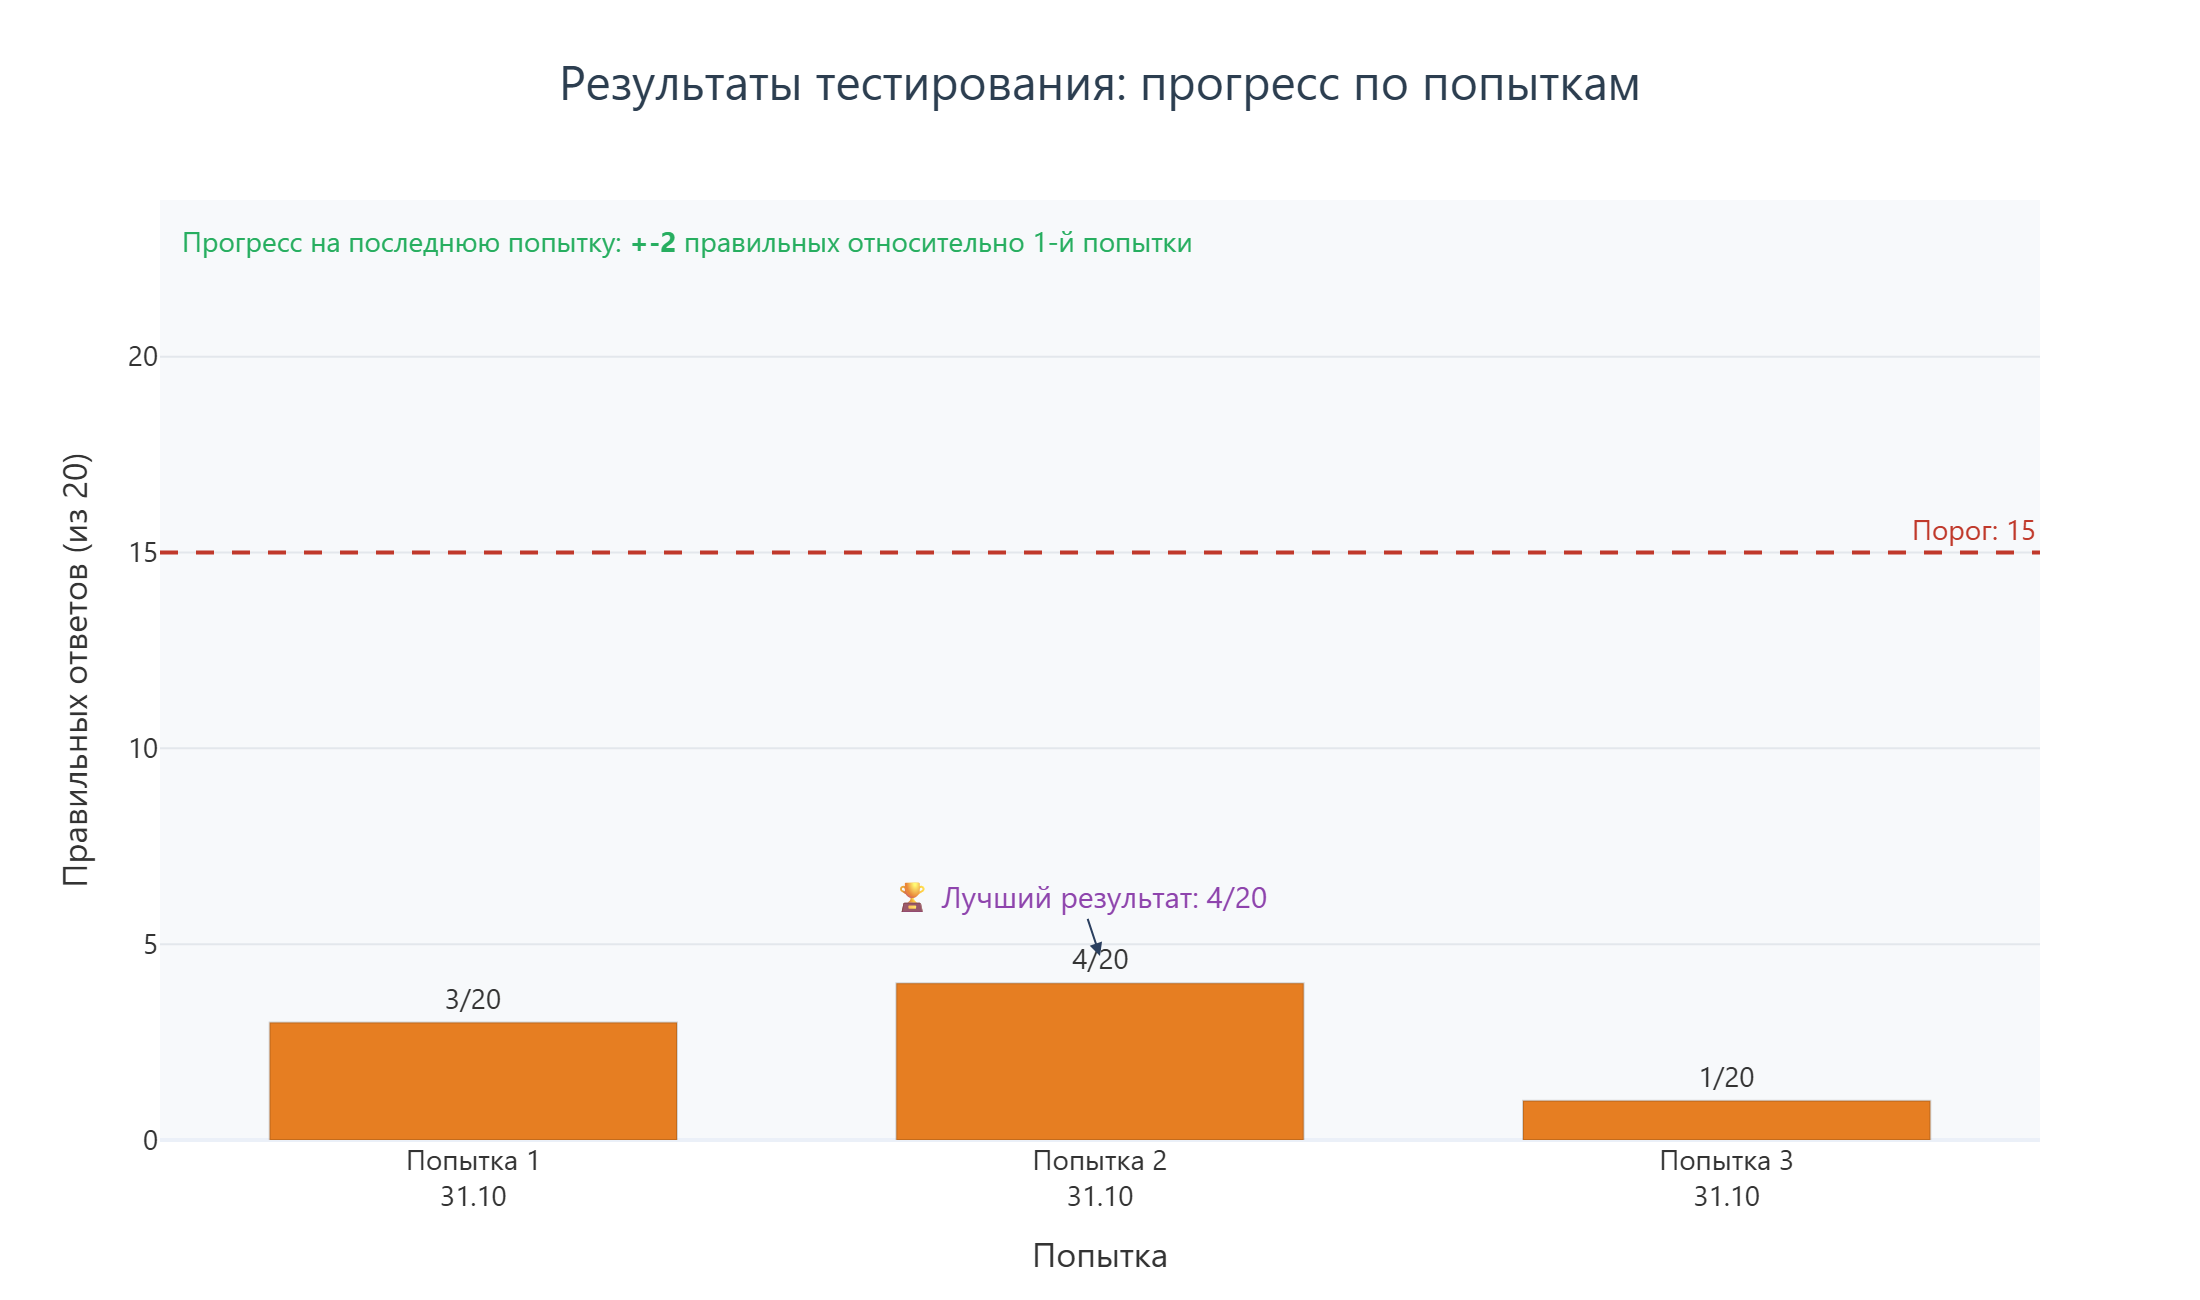
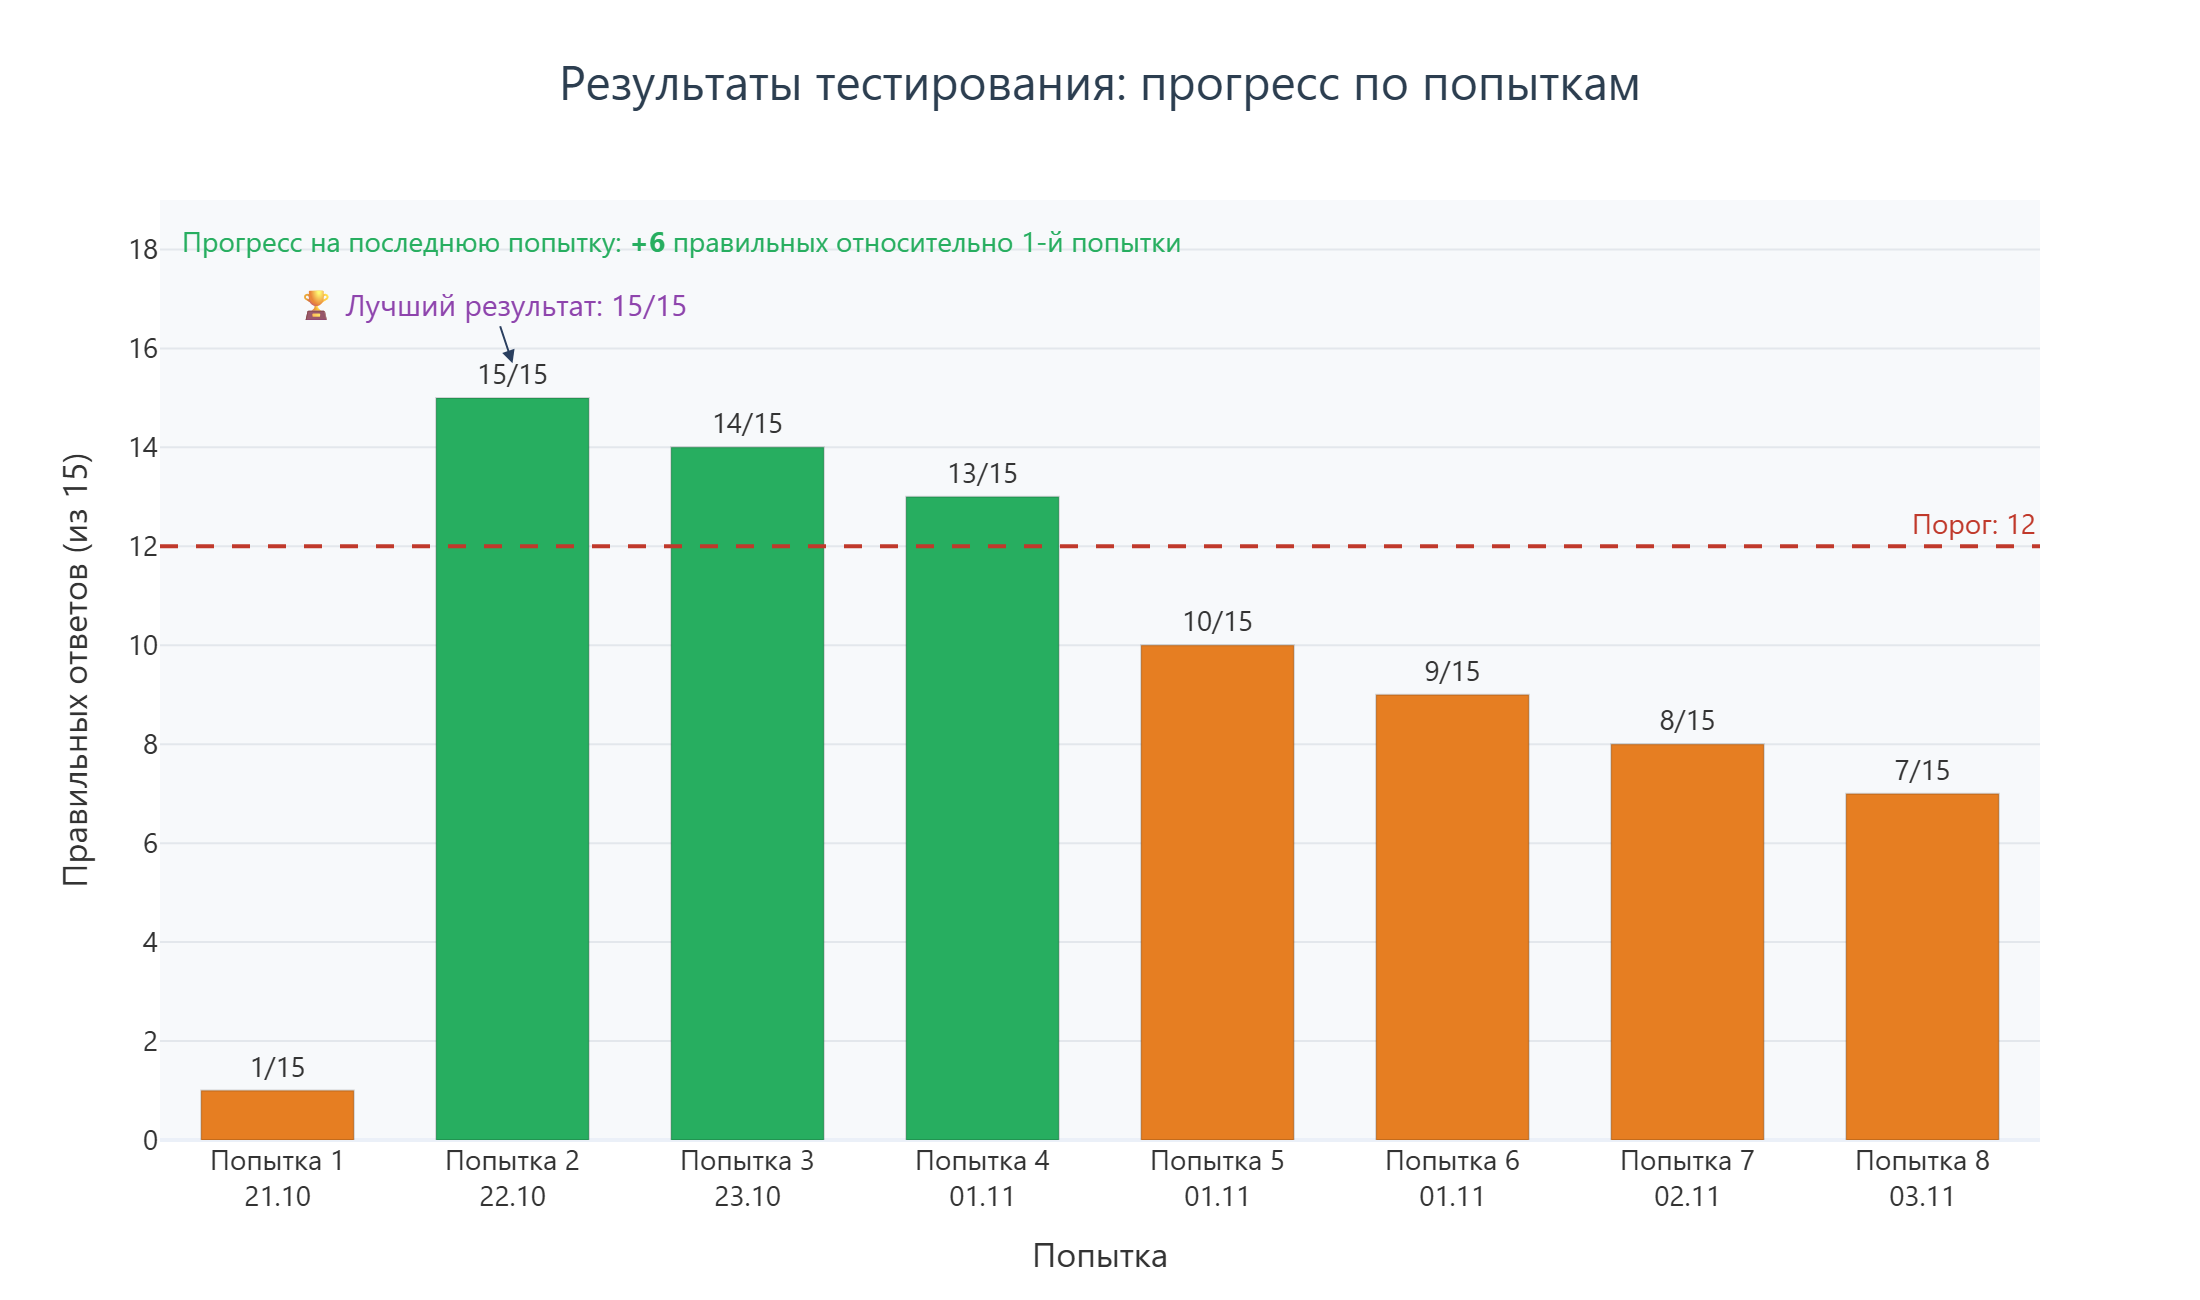
Изменен баг в тестах, результаты проходных и максимального кол-ва правильных ответов соответствуют действительности

Changed region(s): [[0.0618, 0.2769, 0.9273, 0.9231], [0.3091, 0.1846, 0.5564, 0.2154], [0.1236, 0.2154, 0.3091, 0.2462]]

diff --git a/test_question.py b/test_question.py
@@ -60,7 +60,10 @@ def _make_question(question: str, correct: str, pool: list) -> dict:
     return {"question": question, "options": options, "correct": options.index(correct)}
 
 
-def build_questions(data=EMERGENCY_DATA) -> list:
+MAX_QUESTIONS = 15
+
+
+def build_questions(data=EMERGENCY_DATA, target: int = MAX_QUESTIONS):
     questions = []
     for idx, (_, text, title) in enumerate(data):
         pools_d = [d for j, (_, t, _) in enumerate(data) if j != idx for d in _dangers(t)]
@@ -76,6 +79,6 @@ def build_questions(data=EMERGENCY_DATA) -> list:
                 f"ЧС «{title}»: что является ПРЕДВЕСТНИКОМ аварии?", premons[0], pools_p))
         if steps:
             questions.append(_make_question(
-                f"ЧС «{title}»: какое действие personnel ПЕРВОЕ по порядку?", steps[0], pools_s))
+                f"ЧС «{title}»: какое ДЕЙСТВИЕ необходимо выполнить персоналу первостепенно?", steps[0], pools_s))
     random.shuffle(questions)
-    return questions
+    return questions[:target]

diff --git a/main.py b/main.py
@@ -506,7 +506,8 @@ class RegistrationWidget(QWidget):
             else:
                 pass
         else:
-            QMessageBox.warning(self, 'Ошибка входа', 'Пожалуйста, заполните все поля и проверьте правильность ввода пароля!\nНеобходима одна большая, одна маленькая английские буквы и спец.символ (за исключением ; " )!')
+            QMessageBox.warning(self, 'Ошибка входа',
+                                'Пожалуйста, заполните все поля и проверьте правильность ввода пароля!\nНеобходима одна большая, одна маленькая английские буквы и спец.символ (за исключением ; " )!')
             if not name_from_edit:
                 self.input_name.setFocus()
             elif not password_from_edit:
@@ -922,4 +923,3 @@ if __name__ == '__main__':
     window = MainWindow()
     window.show()
     sys.exit(app.exec_())
-

diff --git a/graph_test.py b/graph_test.py
@@ -20,8 +20,8 @@ def get_results(login_id):
         "correct": results,  # правильных ответов
     }
 
-    TOTAL = 20
-    PASS = 15
+    TOTAL = 15
+    PASS = 12
 
     df = pd.DataFrame(data)
     df["label"] = df["attempt"] + "<br>" + df["date"]  # подпись + дата
